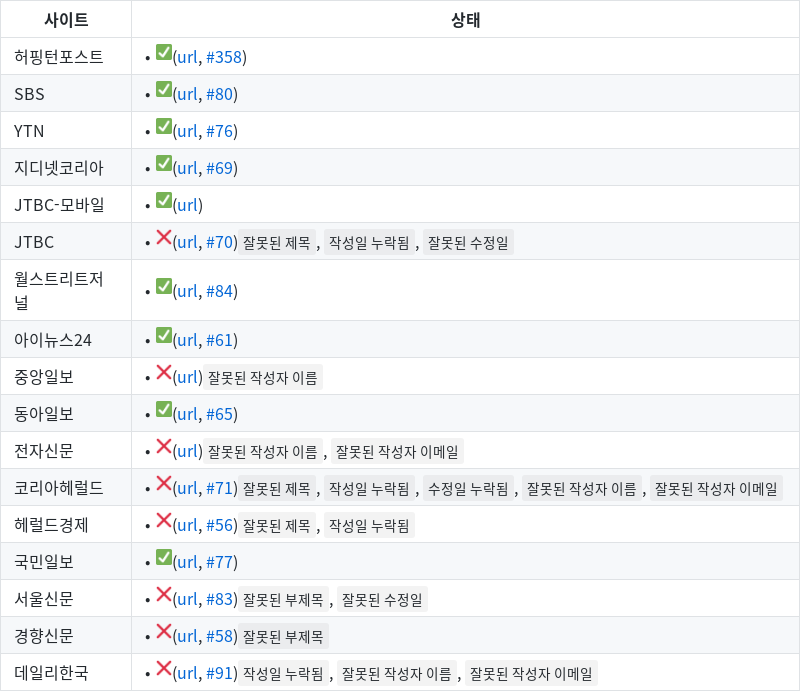
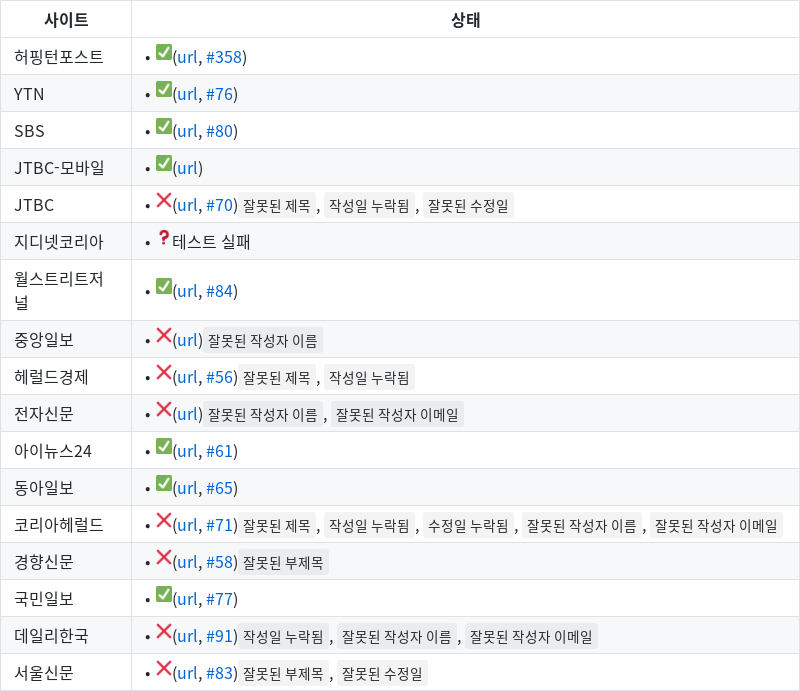
Wed Sep 30 00:48:39 UTC 2020

diff --git a/health-check.md b/health-check.md
@@ -1,19 +1,19 @@
 | 사이트 | 상태 |
 |------|-------|
 | 허핑턴포스트 | • ✅([url](https://www.huffingtonpost.kr/entry/story_kr_5d36a558e4b004b6adb5029c?9e4), [#358](https://github.com/disjukr/just-news/issues/#358)) |
-| SBS | • ✅([url](https://news.sbs.co.kr/news/endPage.do?news_id=N1002697236), [#80](https://github.com/disjukr/just-news/issues/#80)) |
 | YTN | • ✅([url](https://www.ytn.co.kr/_ln/0103_201411190800481989), [#76](https://github.com/disjukr/just-news/issues/#76)) |
-| 지디넷코리아 | • ✅([url](http://www.zdnet.co.kr/view/?no=20141104074223), [#69](https://github.com/disjukr/just-news/issues/#69)) |
+| SBS | • ✅([url](https://news.sbs.co.kr/news/endPage.do?news_id=N1002697236), [#80](https://github.com/disjukr/just-news/issues/#80)) |
 | JTBC-모바일 | • ✅([url](http://mnews.jtbc.joins.com/News/Article.aspx?news_id=NB11866214)) |
 | JTBC | • ❌([url](http://news.jtbc.joins.com/article/article.aspx?news_id=NB10639468), [#70](https://github.com/disjukr/just-news/issues/#70))`잘못된 제목`, `작성일 누락됨`, `잘못된 수정일` |
+| 지디넷코리아 | • ❓테스트 실패 |
 | 월스트리트저널 | • ✅([url](https://realtime.wsj.com/korea/2014/10/13/%EB%B0%95%EC%9B%90%EC%88%9C-%EC%84%9C%EC%9A%B8%EC%8B%9C%EC%9E%A5-%EB%AF%B8%EA%B5%AD-%EC%96%B8%EB%A1%A0%EC%97%90-%EB%8F%99%EC%84%B1%EA%B2%B0%ED%98%BC-%EC%A7%80%EC%A7%80-%EB%B0%9C%EC%96%B8/), [#84](https://github.com/disjukr/just-news/issues/#84)) |
-| 아이뉴스24 | • ✅([url](http://www.inews24.com/view/860573), [#61](https://github.com/disjukr/just-news/issues/#61)) |
 | 중앙일보 | • ❌([url](https://news.joins.com/article/23621286))`잘못된 작성자 이름` |
-| 동아일보 | • ✅([url](http://news.donga.com/3/03/20141107/67723014/1), [#65](https://github.com/disjukr/just-news/issues/#65)) |
-| 전자신문 | • ❌([url](http://www.etnews.com/20191031000370?mc=ns_003_00006))`잘못된 작성자 이름`, `잘못된 작성자 이메일` |
-| 코리아헤럴드 | • ❌([url](http://khnews.kheraldm.com/view.php?ud=20141111001137&md=20141111180830_BK&kr=1), [#71](https://github.com/disjukr/just-news/issues/#71))`잘못된 제목`, `작성일 누락됨`, `수정일 누락됨`, `잘못된 작성자 이름`, `잘못된 작성자 이메일` |
 | 헤럴드경제 | • ❌([url](http://news.heraldcorp.com/view.php?ud=20141023000202&md=20141023091209_BK), [#56](https://github.com/disjukr/just-news/issues/#56))`잘못된 제목`, `작성일 누락됨` |
-| 국민일보 | • ✅([url](http://news.kmib.co.kr/article/view.asp?arcid=0008864720&code=61121111), [#77](https://github.com/disjukr/just-news/issues/#77)) |
-| 서울신문 | • ❌([url](http://seoul.co.kr/news/newsView.php?id=20141204500025), [#83](https://github.com/disjukr/just-news/issues/#83))`잘못된 부제목`, `잘못된 수정일` |
+| 전자신문 | • ❌([url](http://www.etnews.com/20191031000370?mc=ns_003_00006))`잘못된 작성자 이름`, `잘못된 작성자 이메일` |
+| 아이뉴스24 | • ✅([url](http://www.inews24.com/view/860573), [#61](https://github.com/disjukr/just-news/issues/#61)) |
+| 동아일보 | • ✅([url](http://news.donga.com/3/03/20141107/67723014/1), [#65](https://github.com/disjukr/just-news/issues/#65)) |
+| 코리아헤럴드 | • ❌([url](http://khnews.kheraldm.com/view.php?ud=20141111001137&md=20141111180830_BK&kr=1), [#71](https://github.com/disjukr/just-news/issues/#71))`잘못된 제목`, `작성일 누락됨`, `수정일 누락됨`, `잘못된 작성자 이름`, `잘못된 작성자 이메일` |
 | 경향신문 | • ❌([url](http://biz.khan.co.kr/khan_art_view.html?artid=201410311921301&code=920100&med=khan), [#58](https://github.com/disjukr/just-news/issues/#58))`잘못된 부제목` |
+| 국민일보 | • ✅([url](http://news.kmib.co.kr/article/view.asp?arcid=0008864720&code=61121111), [#77](https://github.com/disjukr/just-news/issues/#77)) |
 | 데일리한국 | • ❌([url](http://daily.hankooki.com/lpage/politics/201412/dh20141219103740137430.htm), [#91](https://github.com/disjukr/just-news/issues/#91))`작성일 누락됨`, `잘못된 작성자 이름`, `잘못된 작성자 이메일` |
+| 서울신문 | • ❌([url](http://seoul.co.kr/news/newsView.php?id=20141204500025), [#83](https://github.com/disjukr/just-news/issues/#83))`잘못된 부제목`, `잘못된 수정일` |
